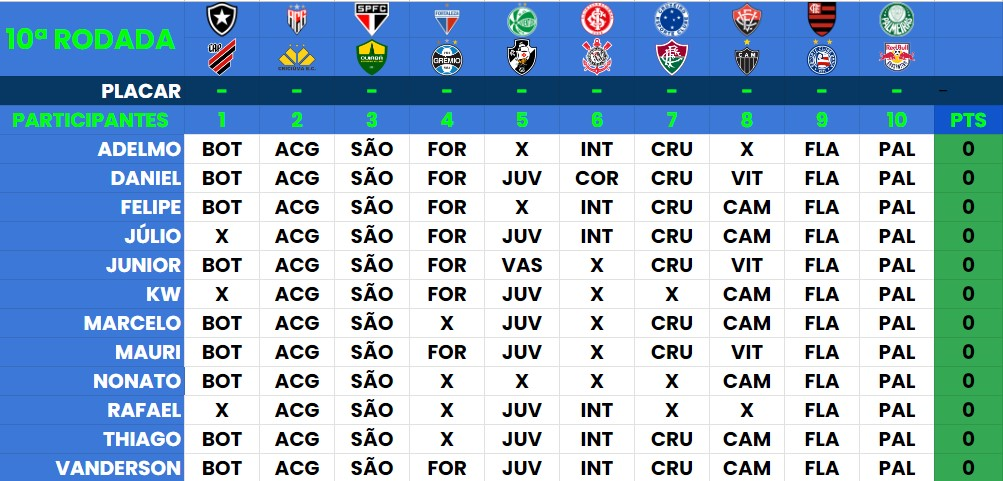
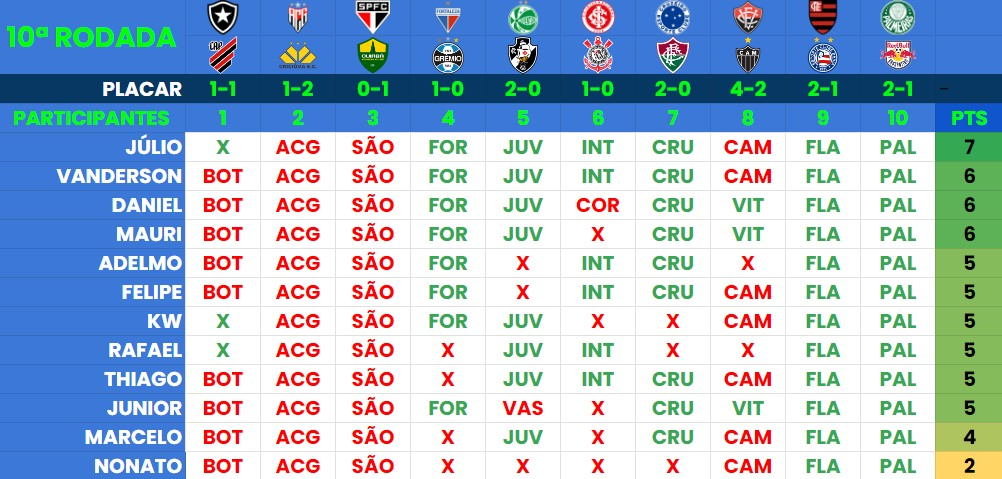
U

Changed region(s): [[0.0, 0.0, 1.0, 1.0]]

diff --git a/index.html b/index.html
@@ -51,10 +51,10 @@
           <img src="./assets/Round10.jpg" alt="Logo do Campeonato Brasileiro 2022" />
         </div>
         <div class="text">
-          <h2 class="title"><a href="./predictor.html">MERCADO FECHADO</a>
+          <h2 class="title"><a href="./predictor.html">Júlio César vence a 10ª Rodada</a>
           </h2>
           <p>
-            Acompanhem o resultado dos palpites
+            Torcedor do Fortaleza faz sete pontos na rodada. Baiano Júnior, segue na liderança da competição
           </p>
           <a class="button" href="./predictor.html">Resumo da Rodada 10</a>
         </div>
@@ -177,7 +177,7 @@
           <div class="content">
             <h2 class="rank"><small>#</small>1</h2>
             <h4>Júnior</h4>
-            <p>44 Pontos</p>
+            <p>49 Pontos</p>
           </div>
         </div>
         <div class="list">
@@ -187,7 +187,7 @@
           <div class="content">
             <h2 class="rank"><small>#</small>2</h2>
             <h4>Adelmo</h4>
-            <p>43 Pontos</p>
+            <p>48 Pontos</p>
           </div>
         </div>
         <div class="list">
@@ -197,7 +197,7 @@
           <div class="content">
             <h2 class="rank"><small>#</small>3</h2>
             <h4>KW</h4>
-            <p>43 Pontos</p>
+            <p>48 Pontos</p>
           </div>
         </div>
         <div class="list">
@@ -207,7 +207,7 @@
           <div class="content">
             <h2 class="rank"><small>#</small>4</h2>
             <h4>Marcelo</h4>
-            <p>41 Pontos</p>
+            <p>45 Pontos</p>
           </div>
         </div>
         <div class="list">
@@ -217,7 +217,7 @@
           <div class="content">
             <h2 class="rank"><small>#</small>5</h2>
             <h4>Rafael</h4>
-            <p>40 Pontos</p>
+            <p>45 Pontos</p>
           </div>
         </div>
         <div class="list">
@@ -227,17 +227,7 @@
           <div class="content">
             <h2 class="rank"><small>#</small>6</h2>
             <h4>Thiago</h4>
-            <p>39 Pontos</p>
-          </div>
-        </div>
-        <div class="list">
-          <div class="imgBx">
-            <img src="./assets/fotos/ceará.png">
-          </div>
-          <div class="content">
-            <h2 class="rank"><small>#</small>7</h2>
-            <h4>Nonato</h4>
-            <p>38 Pontos</p>
+            <p>44 Pontos</p>
           </div>
         </div>
         <div class="list">
@@ -245,9 +235,9 @@
             <img src="./assets/fotos/fortaleza.png">
           </div>
           <div class="content">
-            <h2 class="rank"><small>#</small>8</h2>
+            <h2 class="rank"><small>#</small>7</h2>
             <h4>Júlio César</h4>
-            <p>36 Pontos</p>
+            <p>43 Pontos</p>
           </div>
         </div>
         <div class="list">
@@ -255,9 +245,19 @@
             <img src="./assets/fotos/corinthians.png">
           </div>
           <div class="content">
-            <h2 class="rank"><small>#</small>9</h2>
+            <h2 class="rank"><small>#</small>8</h2>
             <h4>Daniel</h4>
-            <p>36 Pontos</p>
+            <p>42 Pontos</p>
+          </div>
+        </div>
+        <div class="list">
+          <div class="imgBx">
+            <img src="./assets/fotos/ceará.png">
+          </div>
+          <div class="content">
+            <h2 class="rank"><small>#</small>9</h2>
+            <h4>Nonato</h4>
+            <p>40 Pontos</p>
           </div>
         </div>
         <div class="list">
@@ -267,7 +267,7 @@
           <div class="content">
             <h2 class="rank"><small>#</small>10</h2>
             <h4>Felipe</h4>
-            <p>35 Pontos</p>
+            <p>40 Pontos</p>
           </div>
         </div>
         <div class="list">
@@ -277,7 +277,7 @@
           <div class="content">
             <h2 class="rank"><small>#</small>11</h2>
             <h4>Mauri</h4>
-            <p>34 Pontos</p>
+            <p>40 Pontos</p>
           </div>
         </div>
         <div class="list">
@@ -287,7 +287,7 @@
           <div class="content">
             <h2 class="rank"><small>#</small>12</h2>
             <h4>Vanderson</h4>
-            <p>31 Pontos</p>
+            <p>37 Pontos</p>
           </div>
         </div>
       </div>
